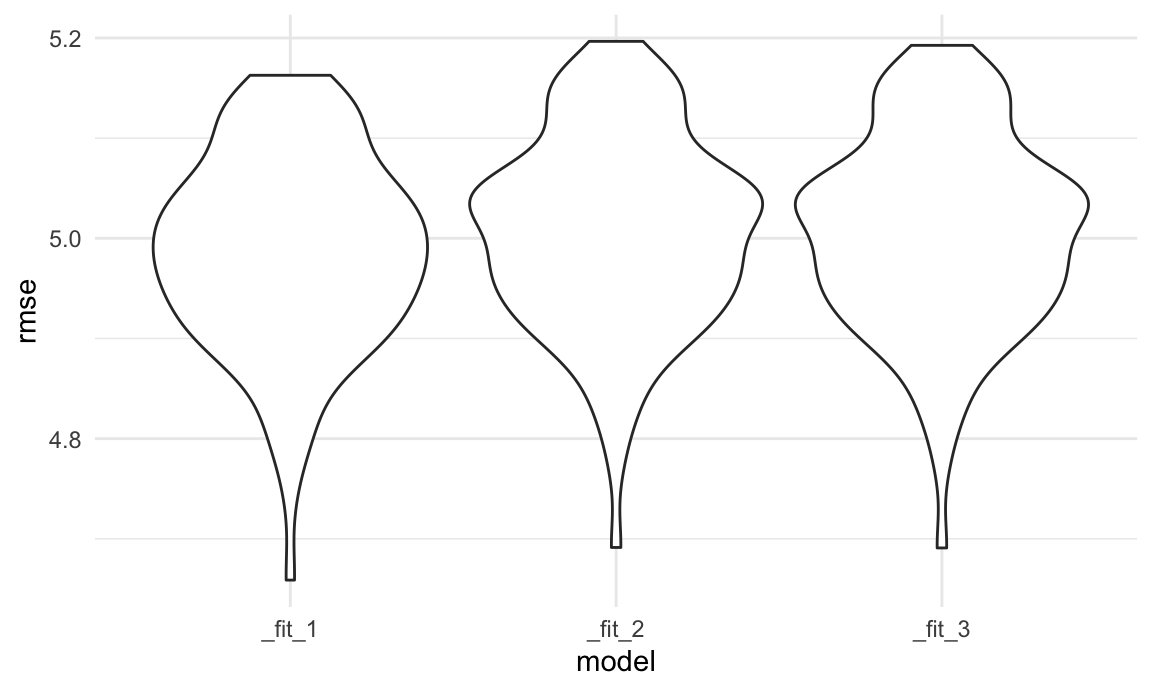
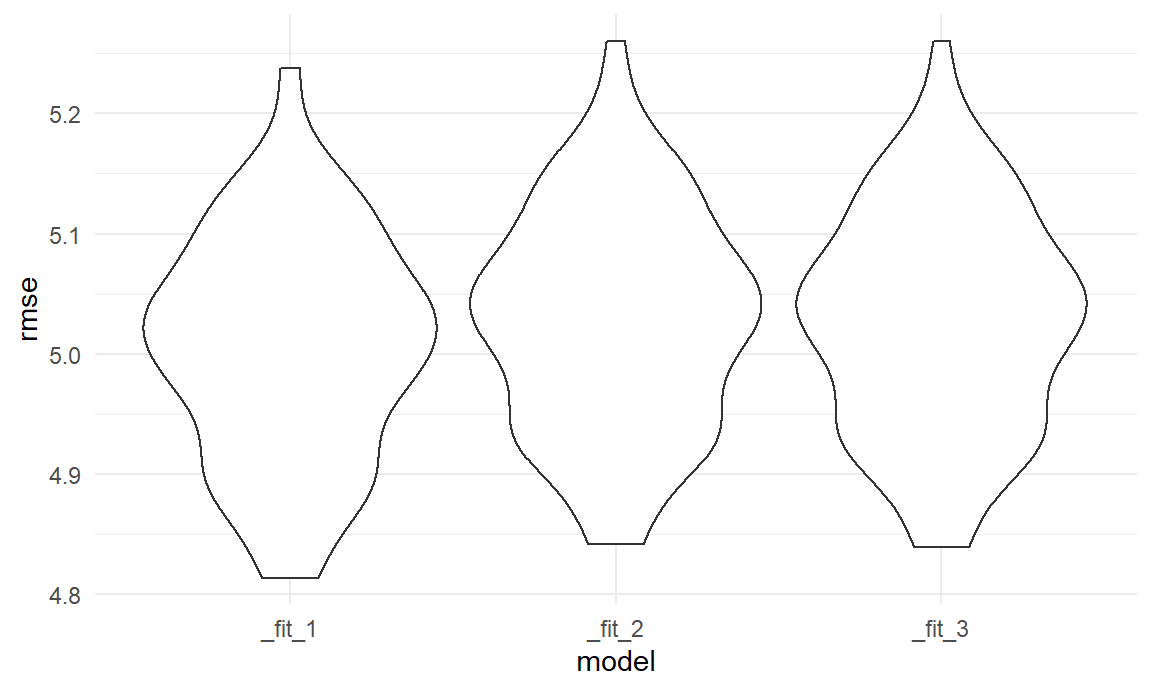
stat

diff --git a/stat.html b/stat.html
@@ -14,7 +14,7 @@
 
 <title>Statistical Analysis</title>
 
-<script src="site_libs/header-attrs-2.18/header-attrs.js"></script>
+<script src="site_libs/header-attrs-2.16/header-attrs.js"></script>
 <script src="site_libs/jquery-3.6.0/jquery-3.6.0.min.js"></script>
 <meta name="viewport" content="width=device-width, initial-scale=1" />
 <link href="site_libs/bootstrap-3.3.5/css/flatly.min.css" rel="stylesheet" />
@@ -186,8 +186,8 @@ $(document).ready(function () {
   border-radius: 4px;
 }
 
-.tabset-dropdown > .nav-tabs > li.active:before, .tabset-dropdown > .nav-tabs.nav-tabs-open:before {
-  content: "\e259";
+.tabset-dropdown > .nav-tabs > li.active:before {
+  content: "";
   font-family: 'Glyphicons Halflings';
   display: inline-block;
   padding: 10px;
@@ -195,9 +195,16 @@ $(document).ready(function () {
 }
 
 .tabset-dropdown > .nav-tabs.nav-tabs-open > li.active:before {
-  content: "\e258";
-  font-family: 'Glyphicons Halflings';
+  content: "&#xe258;";
   border: none;
+}
+
+.tabset-dropdown > .nav-tabs.nav-tabs-open:before {
+  content: "";
+  font-family: 'Glyphicons Halflings';
+  display: inline-block;
+  padding: 10px;
+  border-right: 1px solid #ddd;
 }
 
 .tabset-dropdown > .nav-tabs > li.active {
@@ -877,9 +884,9 @@ cv_df %&gt;%
 </thead>
 <tbody>
 <tr class="odd">
-<td align="right">4.987</td>
 <td align="right">5.006</td>
-<td align="right">5.005</td>
+<td align="right">5.027</td>
+<td align="right">5.026</td>
 </tr>
 </tbody>
 </table>
@@ -929,18 +936,14 @@ get_best_result(elnet_int)</code></pre>
 <h3>Model Diagnostics</h3>
 <p>In this final step, we perform model diagnostics to see if
 assumptions are satisfied for our chosen, optimal model. Specifically,
-we assess whether our model of choice violates the assumptions of
-multicollinearity by using VIF values, non-linearity, unequal error
-variances, and outliers by examining residual vs. fitted plot.</p>
+we assess whether our model of choice violates the assumptions of linear
+regression model, including multicollinearity by using VIF values,
+non-linearity, unequal error variances.</p>
 <div id="residual-vs.-fitted-plot" class="section level4">
 <h4>Residual vs. Fitted Plot</h4>
 <pre class="r"><code># Plot model residuals against fitted values
-reg_df %&gt;% 
-  add_predictions(fit_1) %&gt;%
-  add_residuals(fit_1) %&gt;% 
-  ggplot(aes(x = pred, y = resid)) +
-  geom_point()</code></pre>
-<p><img src="stat_files/figure-html/unnamed-chunk-12-1.png" width="90%" /></p>
+plot(fit_1)</code></pre>
+<p><img src="stat_files/figure-html/unnamed-chunk-12-1.png" width="90%" /><img src="stat_files/figure-html/unnamed-chunk-12-2.png" width="90%" /><img src="stat_files/figure-html/unnamed-chunk-12-3.png" width="90%" /><img src="stat_files/figure-html/unnamed-chunk-12-4.png" width="90%" /></p>
 <ol style="list-style-type: decimal">
 <li><p>The residuals do not “bounce randomly” around the 0 line,
 suggesting that the assumption that the relationship is linear is not
